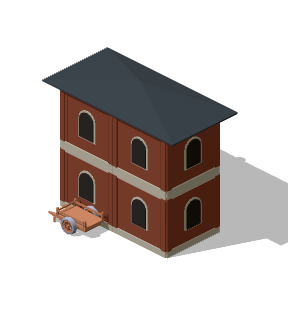
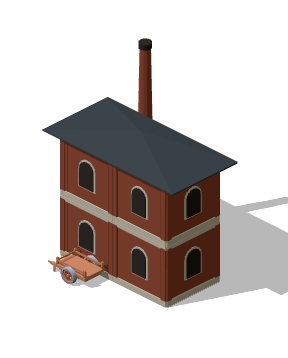
fix(art): Turks mills show their chimney and both silos
The Tanzimat steam mill's brick stack stood behind the building below the
roofline, and the tower hid one of the two Republican silos. The stack now
rises above the roof and the silos stand west of the tower.

Changed region(s): [[0.125, 0.0871, 1.0, 0.871]]

diff --git a/game/art/kenney/manifest.js b/game/art/kenney/manifest.js
@@ -1262,9 +1262,9 @@ const KENNEY_ART = {
  },
  "mill_turks_4": {
   "w": 144,
-  "h": 155,
+  "h": 179,
   "ax": 70,
-  "ay": 106.57,
+  "ay": 131.35,
   "SC": 2
  },
  "mill_turks_5": {
